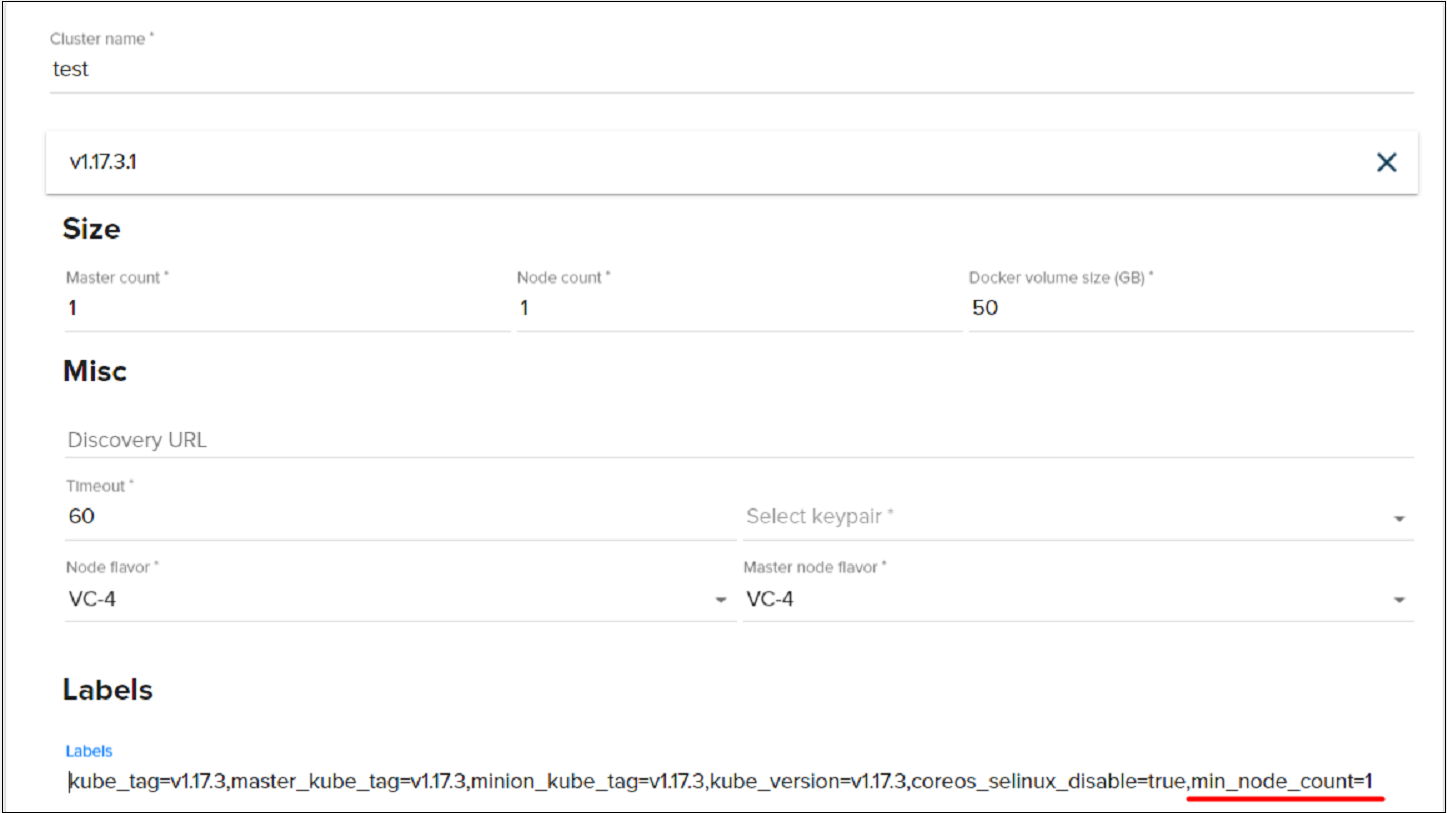
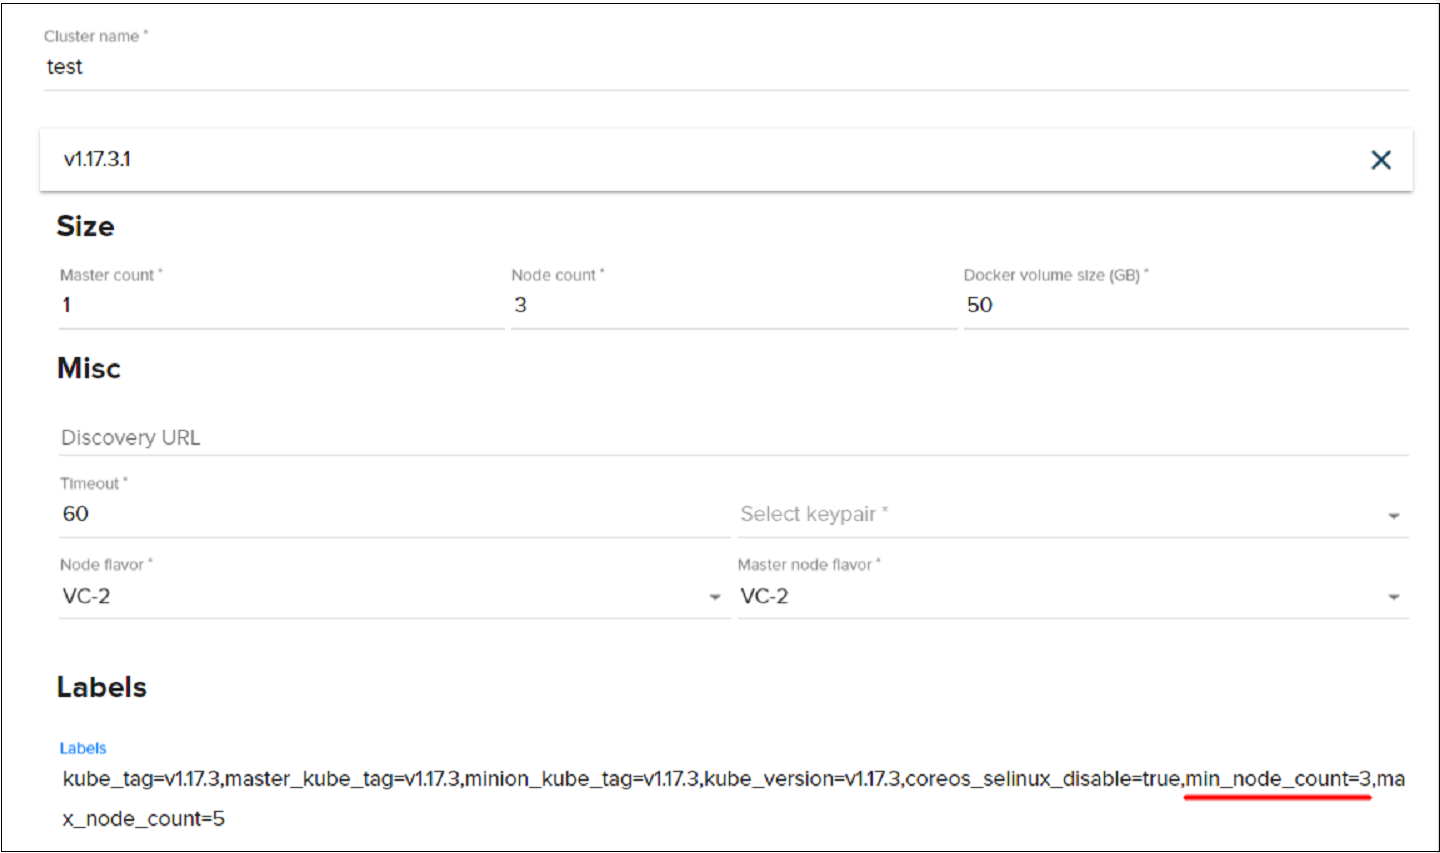
Major changes after review

diff --git a/_docs/Kubernetes/Autoscaling.md b/_docs/Kubernetes/Autoscaling.md
@@ -4,18 +4,19 @@ description: "How to use autoscaler: min and max count of nodes"
 tags: [ featured, coretasks ]
 # permalink: /Autoscaling/
 ---
-# Autoscaler: min and max count of nodes in Kubernetes cluster.
+# Autoscaler: min and max count of nodes in Kubernetes cluster
 ---
 
-In this task we will see how use autoscaling in Kubernetes cluster.
+In this task we will see how controll count of nodes in Kubernetes cluster.
 
- 
 
-- Go to Cloud page, choose Kubernetes and create your [Kubernetes cluster](https://ventuscloud.eu/docs/Kubernetes/Kubernetes%20Cluster) with existing parametrs and add tag `min_node_count=1`:
+## Min node count
+
+- Go to Cloud page, choose Kubernetes and create your [Kubernetes cluster](https://ventuscloud.eu/docs/Kubernetes/Kubernetes%20Cluster) with existing parametrs and add tag `min_node_count=3`:
 
 ```
 Master count: 1
-Node count: 1
+Node count: 3
 Docker volume size (Gb): 50
 Node flavor: VC-2
 Master node flavor: VC-2
@@ -25,7 +26,34 @@ Master node flavor: VC-2
 
 - Now connect to your cluster using [CLI](https://ventuscloud.eu/docs/Kubernetes/access-by-cli)  
 
-- Create `deployment-test.yaml` file with existing lines:    
+- Use command `kubectl get nodes` to make sure that we have minimum 3 nodes on our cluster:
+
+```console
+NAME                         STATUS   ROLES    AGE     VERSION
+test-ptdzc7aqfngp-master-0   Ready    master   16m     v1.17.3
+test-ptdzc7aqfngp-node-0     Ready    <none>   14m     v1.17.3
+test-ptdzc7aqfngp-node-1     Ready    <none>   7m30s   v1.17.3
+test-ptdzc7aqfngp-node-2     Ready    <none>   82s     v1.17.3
+```
+Now we have 3 nodes on our cluster and autoscaler don't scale out it lower then 3 nodes, as we indicated in min_node_count. 
+
+## Max node count
+
+- Go to Cloud page, choose Kubernetes and create your [Kubernetes cluster](https://ventuscloud.eu/docs/Kubernetes/Kubernetes%20Cluster) with existing parametrs and add tag `max_node_count=1`:
+
+```
+Master count: 1
+Node count: 1
+Docker volume size (Gb): 50
+Node flavor: VC-2
+Master node flavor: VC-2
+```
+
+![](../../assets/img/autoscaling/max_node_count.png) 
+
+- Connect to your cluster using [CLI](https://ventuscloud.eu/docs/Kubernetes/access-by-cli)
+
+- Now to check how autoscaler will scale your nodes create `deployment-test.yaml` file with existing lines:    
 
 ```yaml
 apiVersion: apps/v1
@@ -49,7 +77,7 @@ spec:
         image: nginx:1.7.9
         resources:
           requests:
-            memory: "400Mi"
+            memory: "800Mi"
         ports:
         - containerPort: 80
 ```
@@ -60,81 +88,68 @@ kubectl apply -f deployment-test.yaml
 ```console
 deployment.apps/deployment-test created
 ```
-- Using command `kubectl get pods` we will see that one of pods can't move in running state:   
+
+- Use comand `kubectl get pods` and look how many pod in running state: 
+
 ```
 kubectl get pods
 ```
 ```console
 NAME                               READY   STATUS    RESTARTS   AGE
-deployment-test-55996c54bf-5dqwh   1/1     Running   0          4s
-deployment-test-55996c54bf-gvcbn   1/1     Running   0          4s
-deployment-test-55996c54bf-kvqf7   1/1     Running   0          4s
-deployment-test-55996c54bf-qrzbv   0/1     Pending   0          4s
-deployment-test-55996c54bf-xwngn   1/1     Running   0          4s
+deployment-test-675c865767-7t6fm   1/1     Running   0          42s
+deployment-test-675c865767-bl268   0/1     Pending   0          42s
+deployment-test-675c865767-hqb7h   1/1     Running   0          42s
+deployment-test-675c865767-rwnf9   0/1     Pending   0          42s
+deployment-test-675c865767-v5c4p   0/1     Pending   0          42s
 ```
+As you can see, only 2 of 5 pods with running status and 3 in pending. 
 
-- Using command `kubectl describe pod "pod name"` we will see that this pod have problem: `Insufficient memory`    
-```
-kubectl describe pod deployment-test-55996c54bf-qrzbv
-```
-```console
+- Use command  `kubectl describe pod "pod name"` on one of the pods with pending status: 
+
+`kubectl describe pod deployment-test-675c865767-v5c4p`
+
+```concole
+Name:           deployment-test-675c865767-v5c4p
+Namespace:      default
+Node:           <none>
+Labels:         app=nginx
+                pod-template-hash=675c865767
+Annotations:    <none>
 Status:         Pending
 IP:
-Controlled By:  ReplicaSet/deployment-test-8676b58c7f
+IPs:            <none>
+Controlled By:  ReplicaSet/deployment-test-675c865767
 Containers:
   nginx:
     Image:      nginx:1.7.9
     Port:       80/TCP
     Host Port:  0/TCP
     Requests:
-      memory:     400Mi
+      memory:     800Mi
     Environment:  <none>
     Mounts:
-      /var/run/secrets/kubernetes.io/serviceaccount from default-token-vzppl (ro)
+      /var/run/secrets/kubernetes.io/serviceaccount from default-token-vxqs2 (ro)
 Conditions:
   Type           Status
   PodScheduled   False
 Volumes:
-  default-token-vzppl:
+  default-token-vxqs2:
     Type:        Secret (a volume populated by a Secret)
-    SecretName:  default-token-vzppl
+    SecretName:  default-token-vxqs2
     Optional:    false
 QoS Class:       Burstable
 Node-Selectors:  <none>
 Tolerations:     node.kubernetes.io/not-ready:NoExecute for 300s
                  node.kubernetes.io/unreachable:NoExecute for 300s
 Events:
-  Type     Reason            Age                 From               Message
-  ----     ------            ----                ----               -------
-  Warning  FailedScheduling  74s (x4 over 4m5s)  default-scheduler  0/2 nodes are available: 1 Insufficient memory, 1 node(s) had taints that the pod didn't tolerate.
+  Type     Reason             Age        From                Message
+  ----     ------             ----       ----                -------
+  Warning  FailedScheduling   <unknown>  default-scheduler   0/2 nodes are available: 1 Insufficient memory, 1 node(s) had taints that the pod didn't tolerate.
+  Warning  FailedScheduling   <unknown>  default-scheduler   0/2 nodes are available: 1 Insufficient memory, 1 node(s) had taints that the pod didn't tolerate.
+  Normal   NotTriggerScaleUp  4m30s      cluster-autoscaler  pod didn't trigger scale-up (it wouldn't fit if a new node is added): 1 max node group size reached
 ```
+In output we can see massega from autoscaler cluster:
 
-- Now create cluster and add tag `max_node_count=5` like we saw on steps earlier.
-
-![](../../assets/img/autoscaling/max_node_count.png) 
-
-- Connect to your cluster and create same deployment. 
-- Wait 1 - 2 minutes while the cluster updated.
-- Use comand `kubectl get pods` and make sure that all pods in running state: 
-```
-kubectl get pods
-```
 ```console
-NAME                               READY   STATUS    RESTARTS   AGE
-deployment-test-55996c54bf-6lfpz   1/1     Running   0          19m
-deployment-test-55996c54bf-gxcsr   1/1     Running   0          19m
-deployment-test-55996c54bf-n87m7   1/1     Running   0          19m
-deployment-test-55996c54bf-xkbqp   1/1     Running   0          19m
-deployment-test-55996c54bf-zrd6f   1/1     Running   0          19m
+pod didn't trigger scale-up (it wouldn't fit if a new node is added): 1 max node group size reached
 ```
-- Use the command `kubectl get nods` to make sure that one more node was added: 
-```
-kubectl get nodes
-```
-```concole
-NAME                         STATUS   ROLES    AGE   VERSION
-test-qk7umk4e67yh-master-0   Ready    master   26m   v1.17.3
-test-qk7umk4e67yh-node-0     Ready    <none>   24m   v1.17.3
-test-qk7umk4e67yh-node-1     Ready    <none>   18m   v1.17.3
-```
-

diff --git a/_docs/Kubernetes/Scaling.md b/_docs/Kubernetes/Scaling.md
@@ -72,7 +72,7 @@ spec:
         ports:
         - containerPort: 80
 ```
-- Create deployment using next command to create deployment.   
+- Create deployment using next command:   
 ```
 kubectl apply -f deployment-test.yaml
 ```
